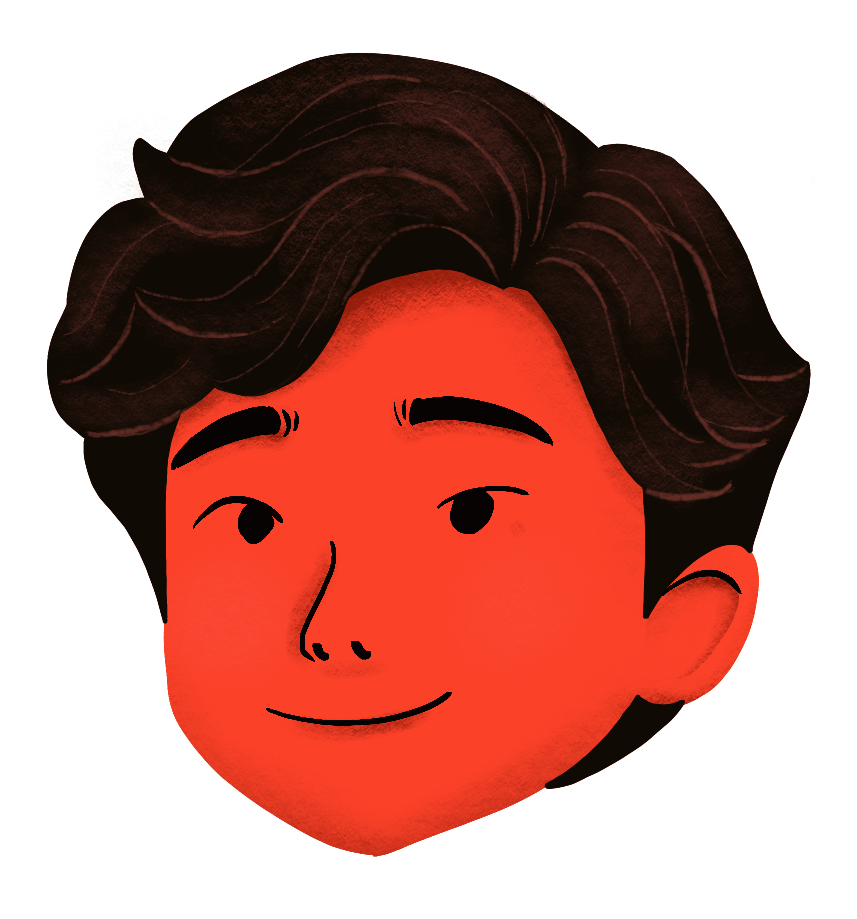
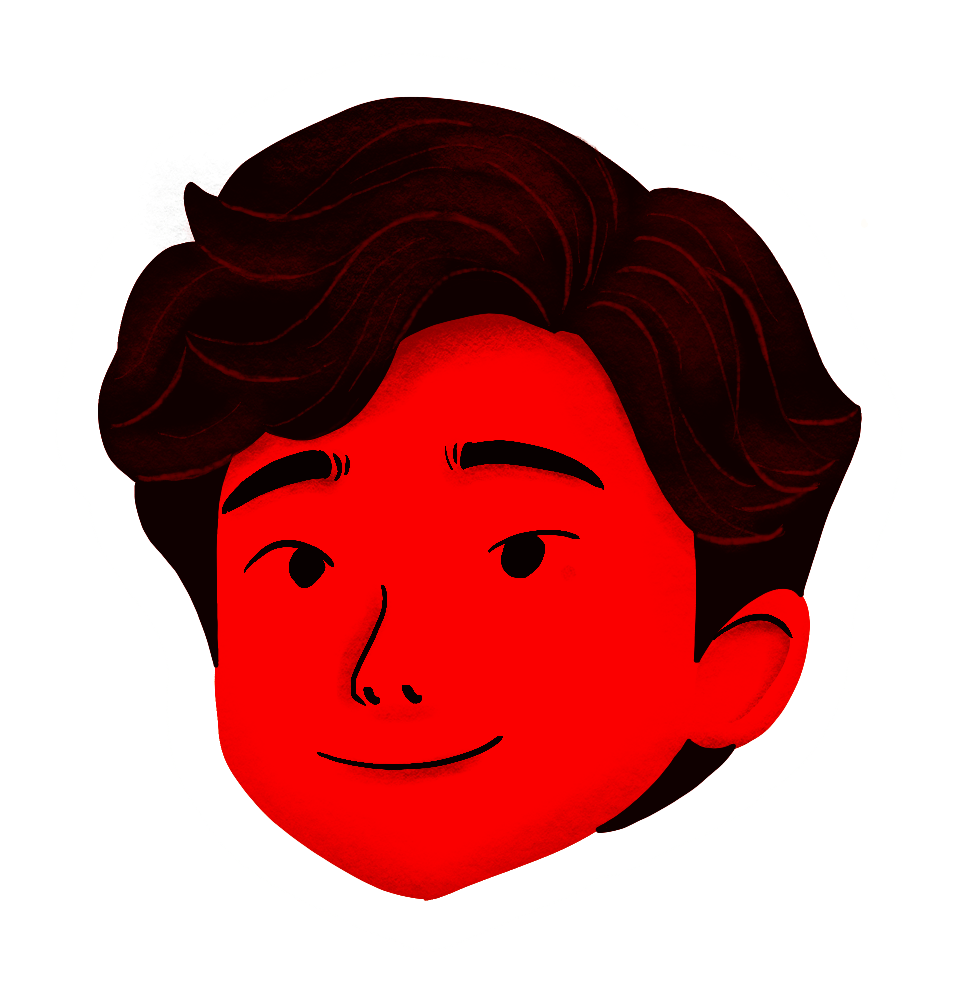
tying visual anchor to all simulation

diff --git a/script/character_controller.js b/script/character_controller.js
@@ -1,0 +1,29 @@
+/**
+ * 
+ */
+const character_sprites = {
+    normal: id => `assets/figure_${id + 1}_normal.PNG`,
+    infected: id => `assets/figure_${id + 1}_infected.PNG`,
+    vaccinated: id => `assets/figure_${id + 1}_vaccinated.PNG`,
+    infected_vaccinated: id => `assets/figure_${id + 1}_infected_vaccinated.PNG`
+};
+
+/**
+ * 
+ */
+const agentCharacterCOntroller = {
+
+    characters: new Map(),
+    activeSimkey: null,
+
+
+    setSimulation(simKey) {
+        this.activeSimkey = simKey;
+    },
+
+    sync() {
+        if (!this.activeSimkey) return;
+
+        const sim = window.simulations[]
+    }
+}
